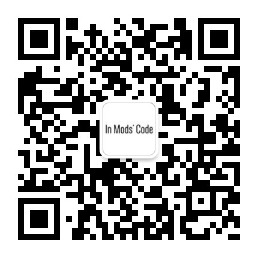
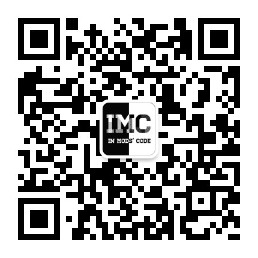
'fix'

Changed region(s): [[0.3721, 0.3721, 0.5891, 0.6202]]

diff --git a/app/Http/Controllers/TestController.php b/app/Http/Controllers/TestController.php
@@ -20,6 +20,19 @@ class TestController extends Controller
 {
     public function index(Request $request)
     {
+        $user = User::findOrNewByOpenid('o4-YOwGt2lQeTZyOaV3_66RlTA3Q');
+        var_dump($user);
+        //判断用户没有订单
+        if (Order::getBuyCount($user->id) == 0) {
+
+            //判断是否从魔豆树进来
+            if (UserRelation::hasParent($user->id)) {
+                $parentId = UserRelation::getParent($user->id)->parent;
+                if ($parentId == 1) {
+                    UserRelation::remove($user->id);
+                }
+            }
+        }
     }
 
     public function login(Request $request)

diff --git a/resources/views/deny.blade.php b/resources/views/deny.blade.php
@@ -7,7 +7,7 @@
     <div class="jump-bg">
         <img src="{{ asset('assets/images') }}/index.jpg">
         <div class="jump-qrcode">
-            <img class="qrcode" src="{{ asset('assets/images') }}/voteqrcode.jpg">
+            <img class="qrcode" src="{{ asset('assets/images') }}/qrcode.jpg">
             <div class="tip">
                 <p>长按二维码</p>
                 关注公众号参与投票
